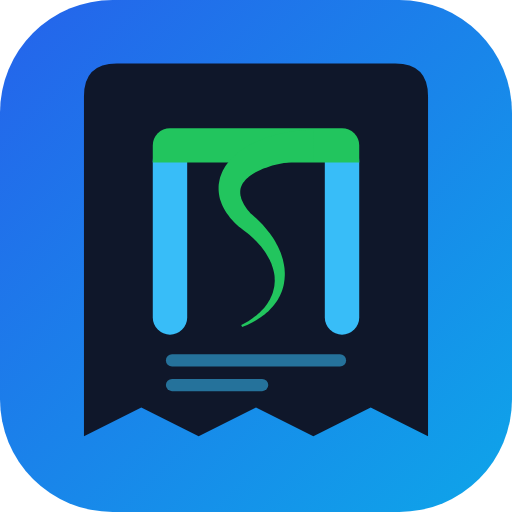
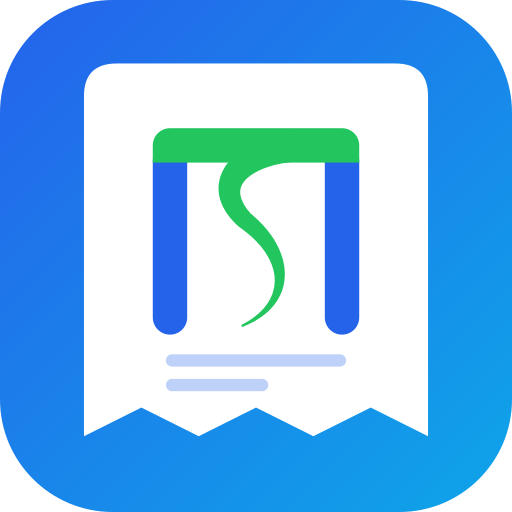
Cập nhật trang tải về v1.0.14

diff --git a/app/index.html b/app/index.html
@@ -364,7 +364,7 @@ img.tile{object-fit:cover;background:var(--surface-2)}
  */
 (function (global) {
   'use strict';
-  var COLORS = { leaf: '#22C55E', legsOnLight: '#2563EB', legsOnDark: '#38BDF8', navy: '#0F172A' };
+  var COLORS = { leaf: '#22C55E', legsOnLight: '#2563EB', legsOnDark: '#38BDF8', navy: '#0F172A', paper: '#FFFFFF' };
   var BAR = 'M28 58 V46 A12 12 0 0 1 40 34 H160 A12 12 0 0 1 172 46 V58 Z';
   // Receipt-shaped tile (logo v2: "Hoa don"), drawn in a 200x200 box; the M-T-S mark sits inside at 70%.
   var BILL = 'M16 22Q16 6 32 6H168Q184 6 184 22V188L156 174L128 188L100 174L72 188L44 174L16 188Z';
@@ -405,11 +405,11 @@ img.tile{object-fit:cover;background:var(--surface-2)}
   // Static logo. theme: 'light' (blue legs) or 'dark' (light-blue legs).
   function svg(opts) {
     opts = opts || {};
-    var legs = COLORS.legsOnDark;   // the navy receipt tile is dark in every theme
+    var legs = COLORS.legsOnLight;   // the receipt tile is white (light background) in every theme
     var size = opts.size || 40, label = opts.label || 'Missing';
-    var lines = size >= 48 ? '<rect x="56" y="148" width="88" height="6" rx="3" fill="#38BDF8" opacity=".55"/><rect x="56" y="160" width="50" height="6" rx="3" fill="#38BDF8" opacity=".55"/>' : '';
+    var lines = size >= 48 ? '<rect x="56" y="148" width="88" height="6" rx="3" fill="#2563EB" opacity=".3"/><rect x="56" y="160" width="50" height="6" rx="3" fill="#2563EB" opacity=".3"/>' : '';
     return '<svg xmlns="http://www.w3.org/2000/svg" viewBox="0 0 200 200" width="' + size + '" height="' + size +
-      '" role="img" aria-label="' + label + '"><path d="' + BILL + '" fill="' + COLORS.navy + '"/>' +
+      '" role="img" aria-label="' + label + '"><path d="' + BILL + '" fill="' + COLORS.paper + '"/>' +
       '<g transform="translate(30 18) scale(.7)"><g transform="translate(0 -6)">' +
       legPath(40, legs) + legPath(160, legs) +
       '<path d="' + BAR + '" fill="' + COLORS.leaf + '"/><path d="' + S_D + '" fill="' + COLORS.leaf + '"/></g></g>' + lines + '</svg>';
@@ -699,7 +699,8 @@ img.tile{object-fit:cover;background:var(--surface-2)}
       root.querySelectorAll('.mi-spinL path, .mi-spinR path').forEach(function (p) {
         p.style.transition = 'stroke ' + FLY + 'ms'; p.style.stroke = legsEnd;
       });
-      billbg.style.transition = 'fill ' + FLY + 'ms'; billbg.style.fill = COLORS.navy;
+      billbg.style.transition = 'fill ' + FLY + 'ms'; billbg.style.fill = COLORS.paper;
+      [l1, l2].forEach(function (l) { l.style.transition = 'fill ' + FLY + 'ms, opacity ' + FLY + 'ms'; l.style.fill = COLORS.legsOnLight; l.style.opacity = .3; });
       var a = root.getBoundingClientRect(), b = target.getBoundingClientRect();
       var s = b.width / a.width;
       var dx = b.left - a.left, dy = b.top - a.top;
@@ -2234,10 +2235,10 @@ applyTheme();
 render();
 function introLogo(replay) {
   const m = matchMedia('(max-width:820px)').matches;
-  MissingLogo.intro({ target: m ? '#m-logo' : '#site-logo', word: m ? '#m-word' : '#site-word', theme: 'dark', once: !replay });
+  MissingLogo.intro({ target: m ? '#m-logo' : '#site-logo', word: m ? '#m-word' : '#site-word', theme: 'light', once: !replay });
 }
-$('#site-logo').innerHTML = MissingLogo.svg({ size: 44, theme: 'dark' });
-$('#m-logo').innerHTML = MissingLogo.svg({ size: 28, theme: 'dark' });
+$('#site-logo').innerHTML = MissingLogo.svg({ size: 44 });
+$('#m-logo').innerHTML = MissingLogo.svg({ size: 28 });
 introLogo(false);
 if (IS_APP && 'serviceWorker' in navigator) navigator.serviceWorker.register('sw.js').catch(() => {});
 setTimeout(snapAuto, 3000); setInterval(snapAuto, 36e5);

diff --git a/app/sw.js b/app/sw.js
@@ -1,5 +1,5 @@
 // Cache-first: the app shell works with no network; bump C after each update so devices fetch the new version.
-const C = 'mas-v30';
+const C = 'mas-v31';
 const SHELL = ['./', 'index.html', 'manifest.webmanifest', 'icon-192.png', 'icon-512.png'];
 self.addEventListener('install', e => { e.waitUntil(caches.open(C).then(c => c.addAll(SHELL))); self.skipWaiting(); });
 self.addEventListener('activate', e => e.waitUntil(
